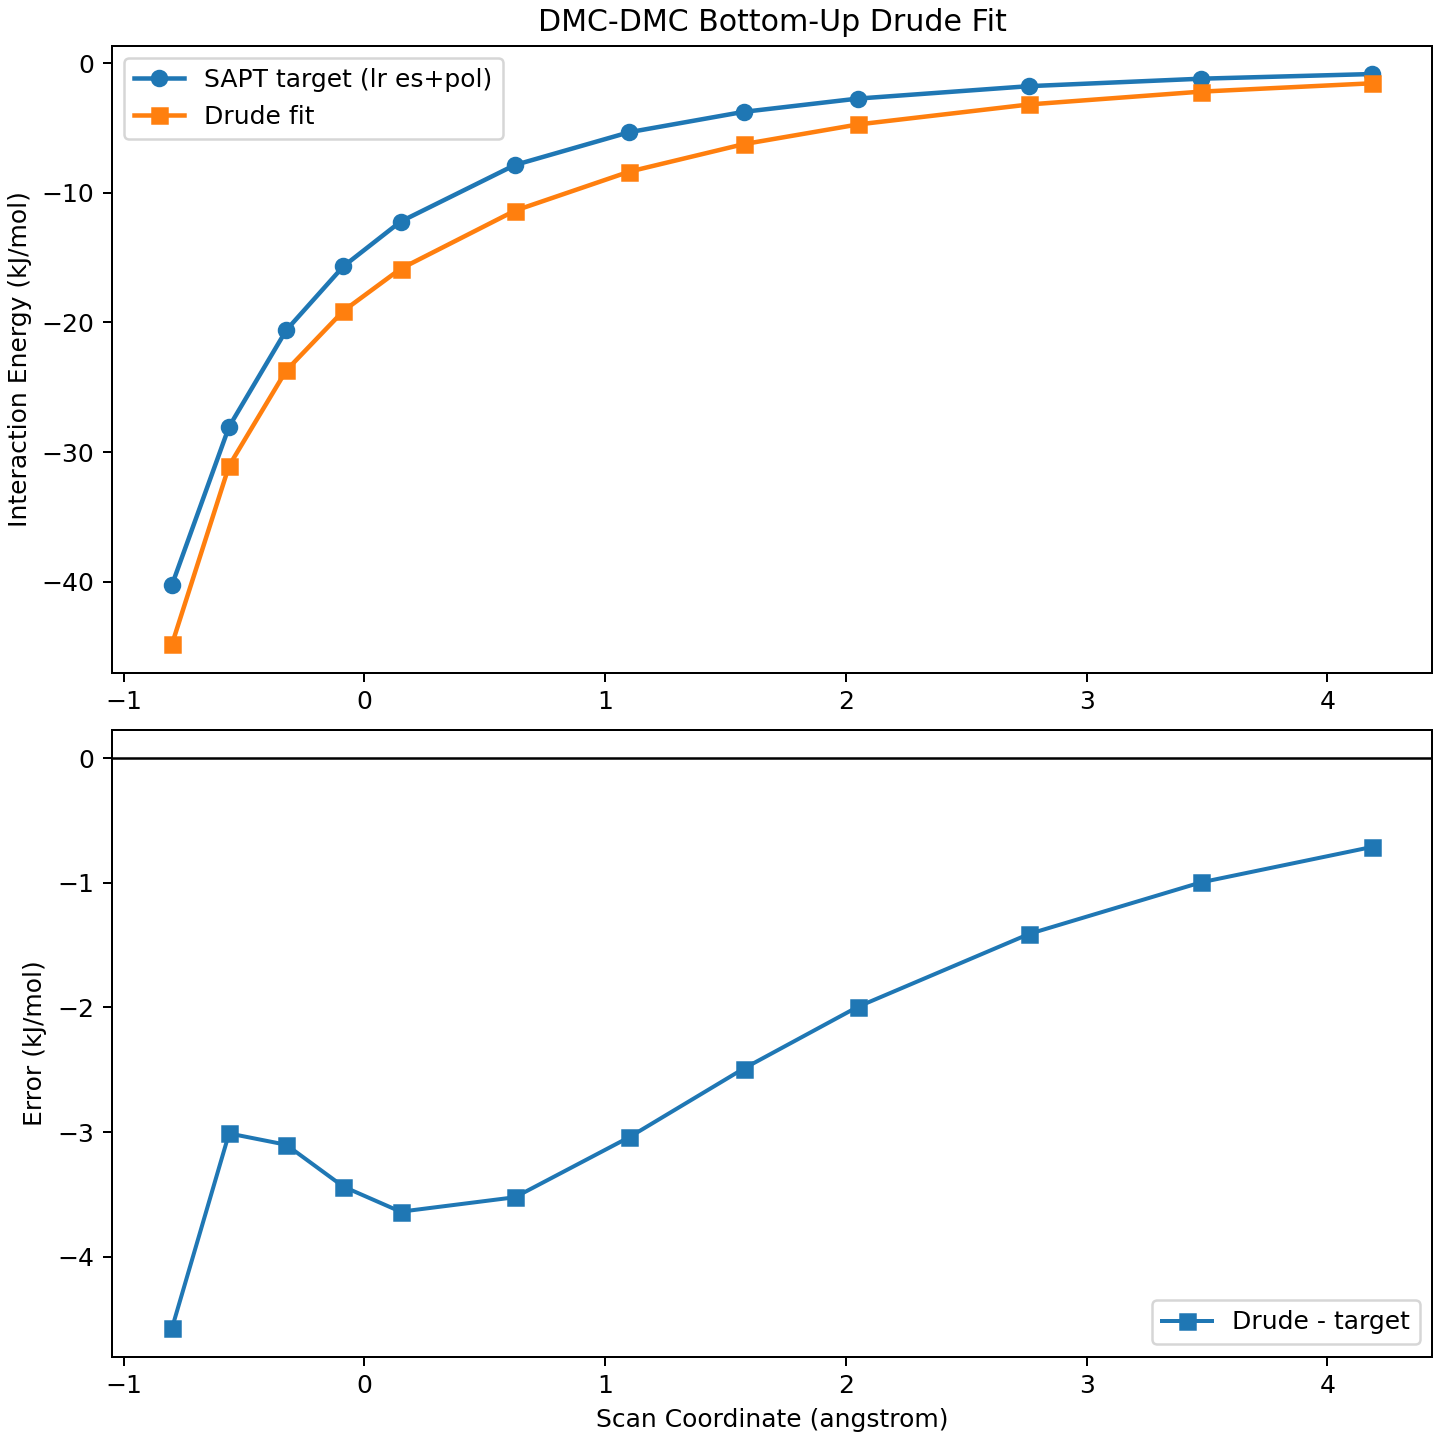
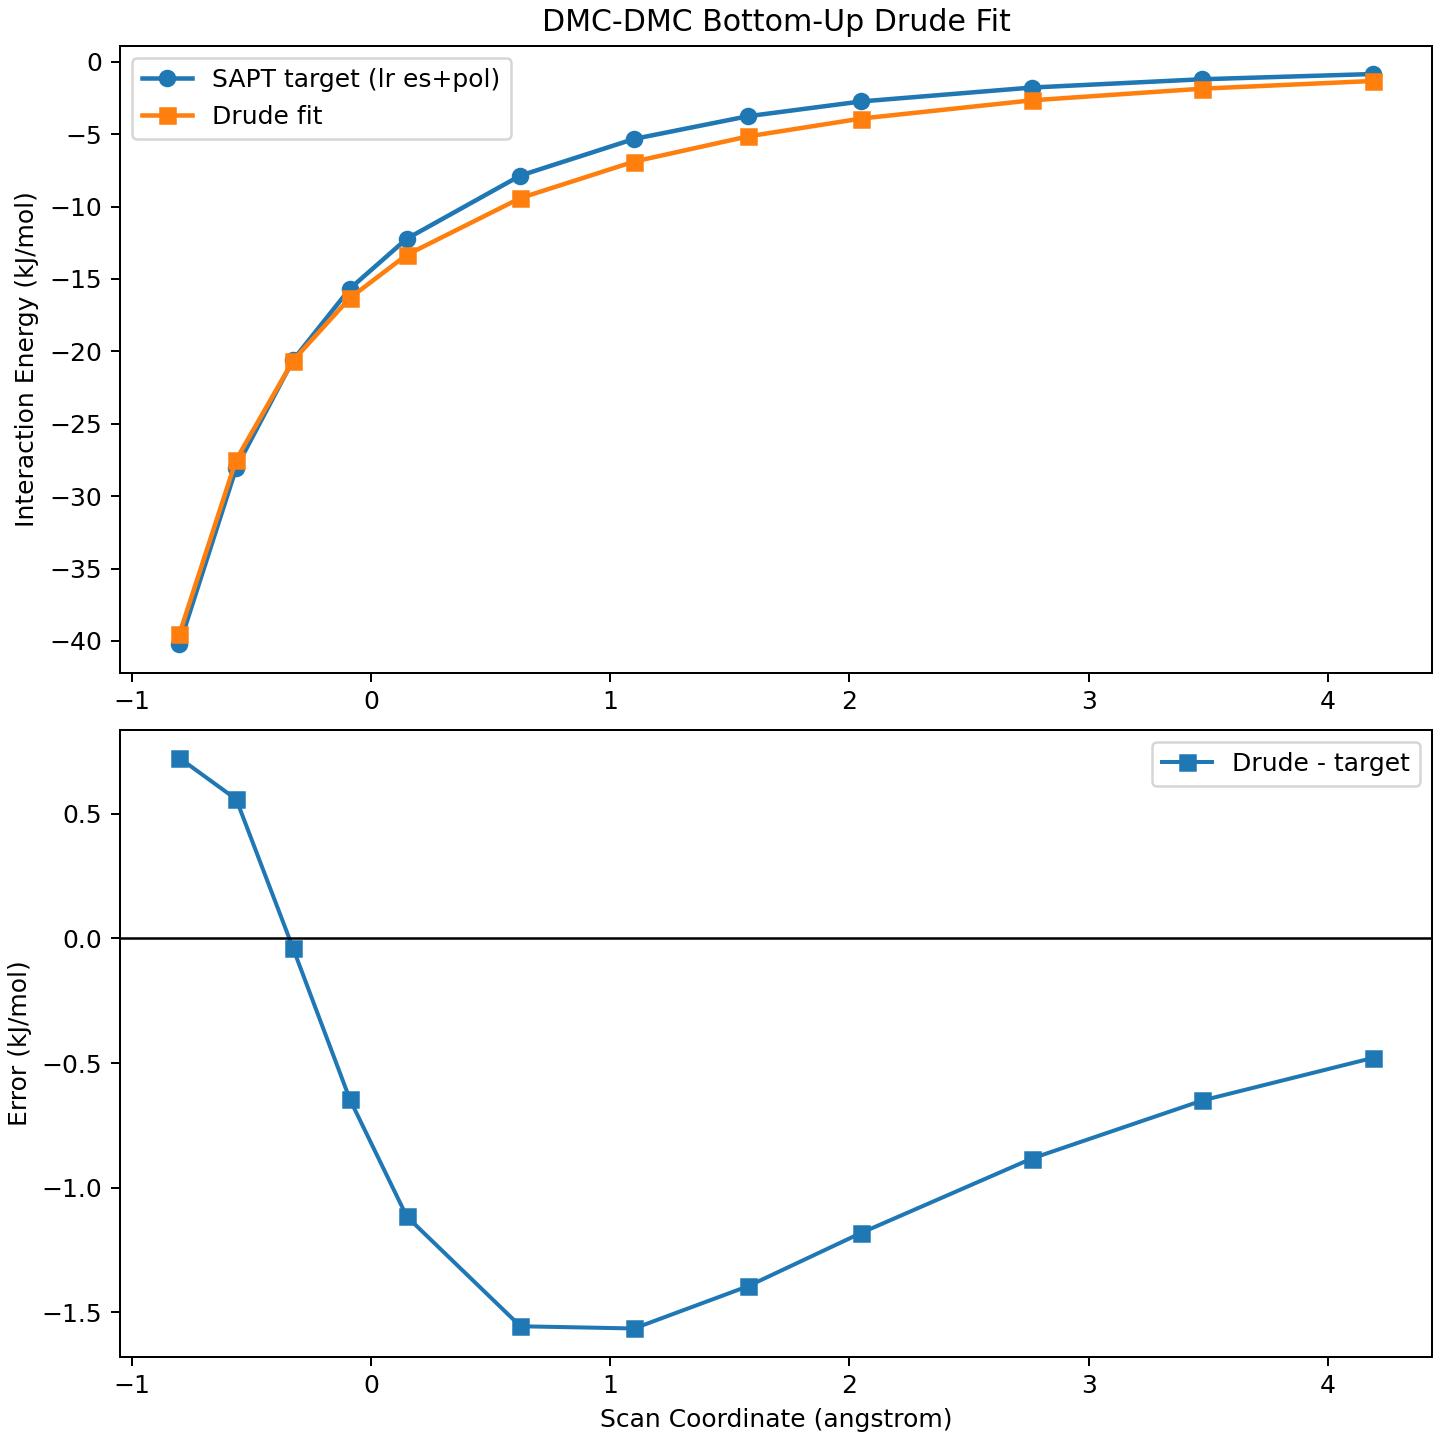
Add grouped thole and charge redistribution to DMC Drude fit

diff --git a/drude_dmc_bottomup/scripts/fit_dmc_drude_espol.py b/drude_dmc_bottomup/scripts/fit_dmc_drude_espol.py
@@ -17,9 +17,11 @@ from common import (
     DEFAULT_DIMER_TARGETS,
     DEFAULT_DRUDE_MODEL,
     DEFAULT_MONOMER_TEMPLATE,
+    DMC_ATOM_GROUP_ORDER,
     OUTPUT,
     create_drude_espol_system,
     create_scf_context,
+    dmc_atom_group,
     evaluate_monomer_response,
     load_drude_model,
     make_positions_with_drudes,
@@ -102,6 +104,35 @@ def load_monomer_targets(path: Path) -> dict | None:
     }
 
 
+def independent_charge_groups() -> tuple[str, ...]:
+    return DMC_ATOM_GROUP_ORDER[:-1]
+
+
+def charge_group_counts(base_model: dict) -> dict[str, int]:
+    counts = {group: 0 for group in DMC_ATOM_GROUP_ORDER}
+    for atom in base_model["atoms"]:
+        counts[dmc_atom_group(atom["name"])] += 1
+    return counts
+
+
+def decode_group_parameters(base_model: dict, x: np.ndarray) -> tuple[dict[str, float], dict[str, float]]:
+    thole_group_scales = {
+        group: float(value) for group, value in zip(DMC_ATOM_GROUP_ORDER, x[2 : 2 + len(DMC_ATOM_GROUP_ORDER)])
+    }
+    charge_groups = independent_charge_groups()
+    raw_charge_deltas = {
+        group: float(value)
+        for group, value in zip(charge_groups, x[2 + len(DMC_ATOM_GROUP_ORDER) : 2 + len(DMC_ATOM_GROUP_ORDER) + len(charge_groups)])
+    }
+    counts = charge_group_counts(base_model)
+    total_assigned = sum(counts[group] * raw_charge_deltas[group] for group in charge_groups)
+    hydrogen_group = DMC_ATOM_GROUP_ORDER[-1]
+    hydrogen_delta = -total_assigned / counts[hydrogen_group]
+    charge_group_deltas = dict(raw_charge_deltas)
+    charge_group_deltas[hydrogen_group] = float(hydrogen_delta)
+    return thole_group_scales, charge_group_deltas
+
+
 def write_curve_csv(path: Path, shifts: np.ndarray, target: np.ndarray, predicted: np.ndarray) -> None:
     with open(path, "w", encoding="ascii", newline="") as handle:
         writer = csv.writer(handle)
@@ -150,11 +181,14 @@ def main() -> None:
 
     def objective(x: np.ndarray) -> float:
         nonlocal best_components
+        thole_group_scales, charge_group_deltas = decode_group_parameters(base_model, x)
         scaled = scale_drude_model(
             base_model,
             alpha_scale=float(x[0]),
             drude_charge_scale=float(x[1]),
-            thole_scale=float(x[2]),
+            thole_scale=1.0,
+            thole_group_scales=thole_group_scales,
+            charge_group_deltas=charge_group_deltas,
         )
         curve = evaluate_curve(topology, targets, scaled, args.platform, args.precision)
         finite_mask = np.isfinite(curve)
@@ -180,7 +214,10 @@ def main() -> None:
             alpha_target = monomer_targets["polarizability_tensor_nm3"]
             dipole_term = float(np.linalg.norm(pred_mu - mu_target) / max(np.linalg.norm(mu_target), 1.0e-8))
             polar_term = float(np.linalg.norm(pred_alpha - alpha_target) / max(np.linalg.norm(alpha_target), 1.0e-8))
-        regularization = 0.1 * float(np.sum((x - np.array([1.0, 1.0, 1.0])) ** 2))
+        scale_reg = 0.05 * float((x[0] - 1.0) ** 2 + (x[1] - 1.0) ** 2)
+        thole_reg = 0.05 * float(sum((value - 1.0) ** 2 for value in thole_group_scales.values()))
+        charge_reg = 25.0 * float(sum(value**2 for value in charge_group_deltas.values()))
+        regularization = scale_reg + thole_reg + charge_reg
         value = float(
             args.dimer_weight * dimer_term
             + args.monomer_dipole_weight * dipole_term
@@ -188,25 +225,36 @@ def main() -> None:
             + regularization
         )
         best_components = {
-            "dimer_term": dimer_term,
-            "dipole_term": dipole_term,
-            "polar_term": polar_term,
-            "regularization": regularization,
-        }
+                "dimer_term": dimer_term,
+                "dipole_term": dipole_term,
+                "polar_term": polar_term,
+                "scale_regularization": scale_reg,
+                "thole_regularization": thole_reg,
+                "charge_regularization": charge_reg,
+                "regularization": regularization,
+            }
         return value
 
+    charge_groups = independent_charge_groups()
+    x0 = np.array([1.0, 1.0] + [1.0] * len(DMC_ATOM_GROUP_ORDER) + [0.0] * len(charge_groups), dtype=float)
+    bounds = [(0.3, 1.5), (0.2, 1.5)]
+    bounds.extend((0.25, 2.5) for _ in DMC_ATOM_GROUP_ORDER)
+    bounds.extend((-0.05, 0.05) for _ in charge_groups)
     result = minimize(
         objective,
-        x0=np.array([1.0, 1.0, 1.0], dtype=float),
+        x0=x0,
         method="L-BFGS-B",
-        bounds=[(0.5, 1.5), (0.5, 1.5), (0.5, 2.0)],
+        bounds=bounds,
         options={"maxiter": args.maxiter},
     )
+    thole_group_scales, charge_group_deltas = decode_group_parameters(base_model, result.x)
     fitted = scale_drude_model(
         base_model,
         alpha_scale=float(result.x[0]),
         drude_charge_scale=float(result.x[1]),
-        thole_scale=float(result.x[2]),
+        thole_scale=1.0,
+        thole_group_scales=thole_group_scales,
+        charge_group_deltas=charge_group_deltas,
     )
     final_curve = evaluate_curve(topology, targets, fitted, args.platform, args.precision)
     finite_mask = np.isfinite(final_curve)
@@ -245,6 +293,14 @@ def main() -> None:
             "message": result.message,
             "fun": float(result.fun),
             "x": result.x.tolist(),
+            "parameter_blocks": {
+                "global_scales": {
+                    "alpha_scale": float(result.x[0]),
+                    "drude_charge_scale": float(result.x[1]),
+                },
+                "thole_group_scales": thole_group_scales,
+                "charge_group_deltas": charge_group_deltas,
+            },
             "weights": {
                 "dimer": args.dimer_weight,
                 "monomer_dipole": args.monomer_dipole_weight,
@@ -260,7 +316,9 @@ def main() -> None:
         },
     )
     print(f"Fit success: {result.success}")
-    print(f"alpha_scale={result.x[0]:.6f} drude_charge_scale={result.x[1]:.6f} thole_scale={result.x[2]:.6f}")
+    print(f"alpha_scale={result.x[0]:.6f} drude_charge_scale={result.x[1]:.6f}")
+    print(f"thole_group_scales={thole_group_scales}")
+    print(f"charge_group_deltas={charge_group_deltas}")
 
 
 if __name__ == "__main__":

diff --git a/drude_dmc_bottomup/scripts/common.py b/drude_dmc_bottomup/scripts/common.py
@@ -41,6 +41,14 @@ E_NM_TO_DEBYE = 48.03204255928332
 DA_PER_NM3_TO_G_PER_ML = 1.66053906660e-3
 ONE_4PI_EPS0 = 138.935456
 
+DMC_ATOM_GROUP_ORDER = (
+    "ester_carbon",
+    "ester_oxygen",
+    "carbonyl_carbon",
+    "carbonyl_oxygen",
+    "methyl_hydrogen",
+)
+
 
 @dataclass(frozen=True)
 class ResidueTemplate:
@@ -199,19 +207,44 @@ def load_drude_model(path: Path) -> dict:
     return load_json(path)
 
 
+def dmc_atom_group(name: str) -> str:
+    raw = name.strip().upper()
+    normalized = normalize_atom_label(name)
+    if raw in {"C00", "C05"} or normalized in {"C0", "C5"}:
+        return "ester_carbon"
+    if raw in {"O01", "O04"} or normalized in {"O1", "O4"}:
+        return "ester_oxygen"
+    if raw == "C02" or normalized == "C2":
+        return "carbonyl_carbon"
+    if raw == "O03" or normalized == "O3":
+        return "carbonyl_oxygen"
+    if raw.startswith("H") or normalized.startswith("H"):
+        return "methyl_hydrogen"
+    raise ValueError(f"Unsupported DMC atom label for grouped fitting: {name}")
+
+
 def scale_drude_model(
     base_model: dict,
     *,
     alpha_scale: float = 1.0,
     drude_charge_scale: float = 1.0,
     thole_scale: float = 1.0,
+    thole_group_scales: dict[str, float] | None = None,
+    charge_group_deltas: dict[str, float] | None = None,
 ) -> dict:
     model = copy.deepcopy(base_model)
+    thole_group_scales = thole_group_scales or {}
+    charge_group_deltas = charge_group_deltas or {}
     for atom in model["atoms"]:
+        group = dmc_atom_group(atom["name"])
         atom["alpha"] = float(atom["alpha"]) * alpha_scale
         atom["drude_charge"] = float(atom["drude_charge"]) * drude_charge_scale
-        atom["thole"] = float(atom["thole"]) * thole_scale
+        atom["thole"] = float(atom["thole"]) * thole_scale * float(thole_group_scales.get(group, 1.0))
+        atom["charge"] = float(atom["charge"]) + float(charge_group_deltas.get(group, 0.0))
         atom["polarizable"] = bool(atom["alpha"] > MIN_POLARIZABILITY and abs(atom["drude_charge"]) > 1.0e-8)
+    metadata = model.setdefault("fit_metadata", {})
+    metadata["thole_group_scales"] = {group: float(thole_group_scales.get(group, 1.0)) for group in DMC_ATOM_GROUP_ORDER}
+    metadata["charge_group_deltas"] = {group: float(charge_group_deltas.get(group, 0.0)) for group in DMC_ATOM_GROUP_ORDER}
     return model
 
 